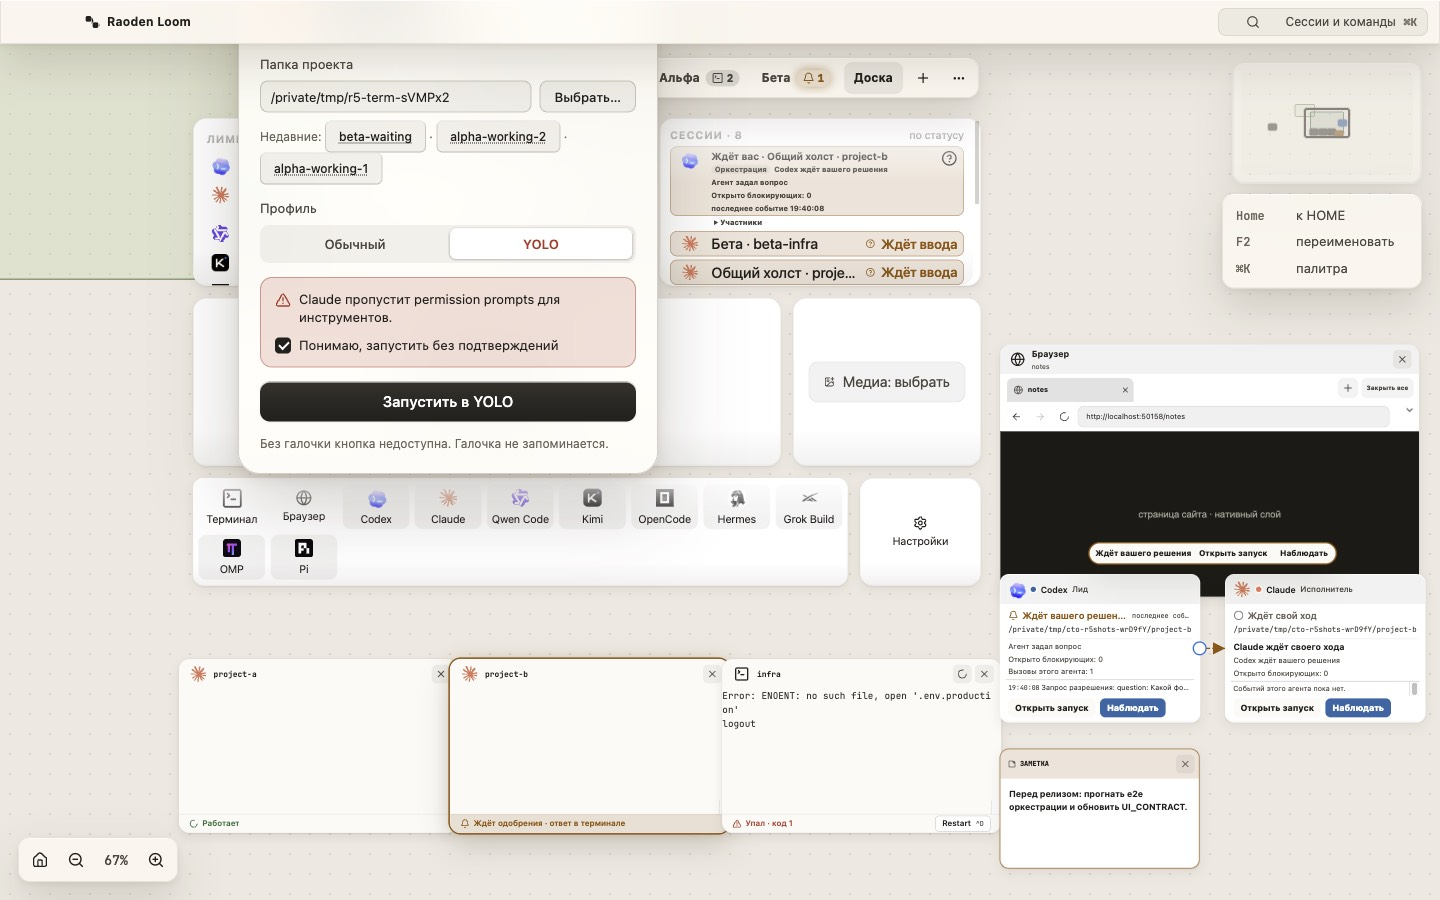
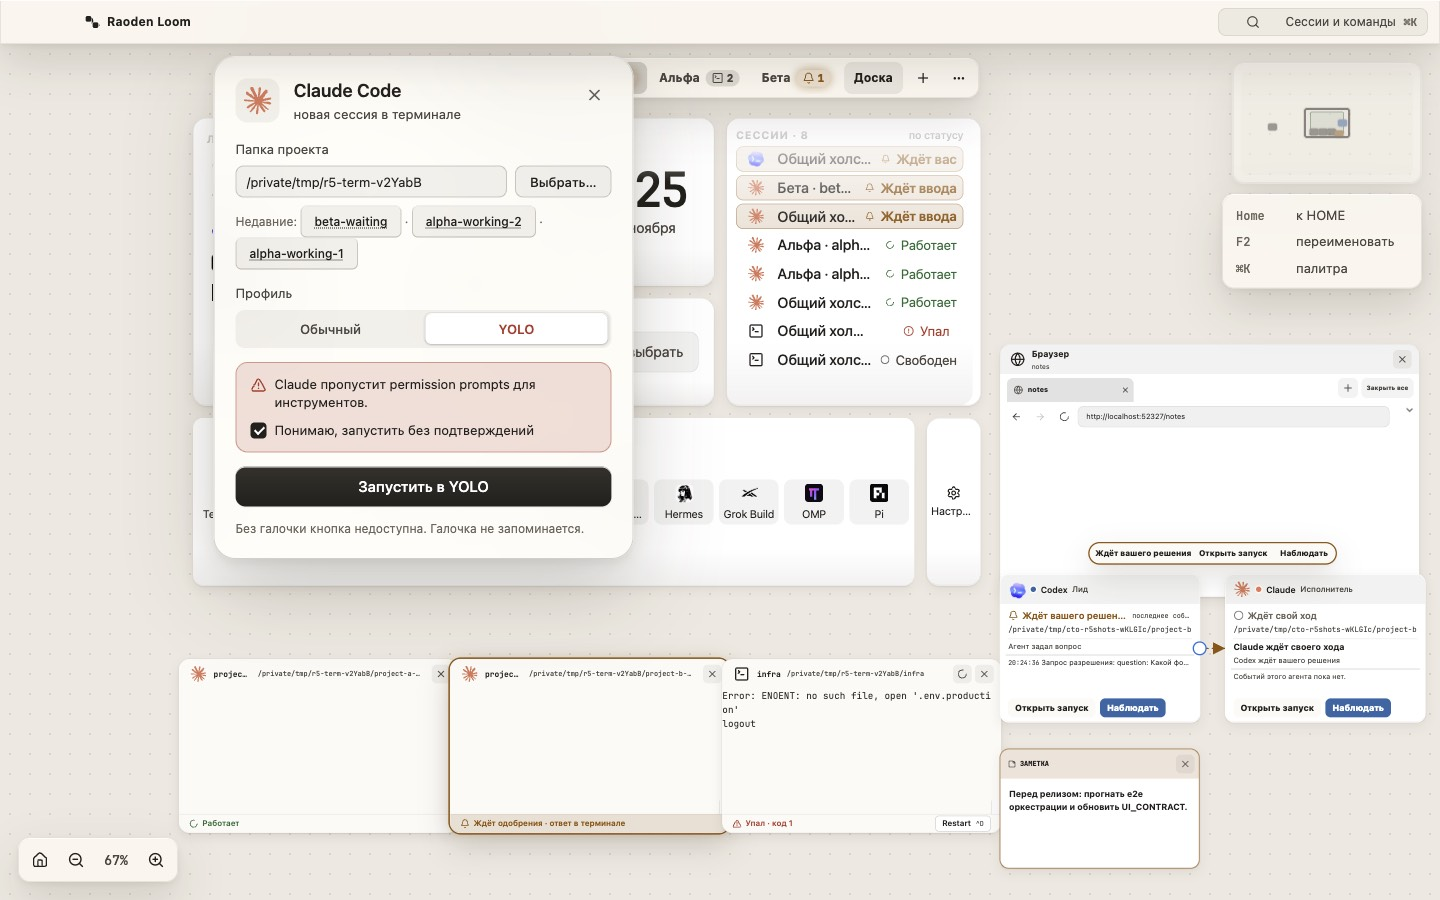
docs(r6b): conformance pairs and notes for HOME, cards, terminal, launch

diff --git a/docs/ux-audit/2026-11-10/conformance-2/other.md b/docs/ux-audit/2026-11-10/conformance-2/other.md
@@ -130,3 +130,17 @@ D-016 разрешает не менять сетку 16×12 и минимум 1
 ## Как снято
 
 `node scripts/shots-r5.mjs --out <scratchpad>/shots --themes sand,paper` (4 мин 40 с) и `--themes frost` отдельно; пары собраны `sips` (вырезка, JPEG). Временные каталоги скрипта (`cto-r5shots-*`, `r5-term-*`) удалены им самим, процессов не осталось.
+
+## После R6-B (HOME, карточки, терминал, запуск агента)
+
+Кадры сняты тем же сценарием (копия `shots-r5.mjs`, sand и paper, 1440×900); пары `03-canvas-*`, `05-home-sand`, `06-terminal-*`, `14-launch-*`, `14-yolo-sand`, `18-link-dialog-*` обновлены (app).
+
+- С1 после R6: закрыто. Поповер у точки клика, «В браузере Loom» / «В системном браузере» / «Скопировать адрес», без «Canvas» и подзаголовка. Не сделано: галочка «Для localhost больше не спрашивать» — настройки запоминания выбора в продукте нет, новую не добавлял (вопрос владельцу).
+- С2 после R6: закрыто. Раскладка по умолчанию: лимиты 5×5, часы 3×3 с медиа 3×2 под ними, сессии 4×5 одним верхним рядом, док 11×3 и настройки 1×3. Сохранённые раскладки не трогаются.
+- М8 после R6: закрыто, 11 кнопок в одном ряду.
+- М7 после R6: закрыто. Запуск оркестрации в «Сессиях» одна строка (марка, проект, статус); подробности в подсказке, участники и детали скрыты из вида (остаются в DOM для смоков).
+- «Ждёт ввода» после R6: колокольчик (и у «Ждёт вас» запуска).
+- М1 после R6: закрыто, рядом с переименованным именем путь моноширинным.
+- М2 после R6: закрыто в `AgentScene.cardState` (не в `runModel.ts`): пауза, которую снимает только человек, даёт состояние `needs_you` у карточки роли, держащей ход, а если хода нет, у обеих карточек запуска. Кадр `06-agent-working-sand` в состоянии макета не снят (фикстура: пауза «отчёт не прочитан»).
+- М4 после R6: закрыто, счётчики «Открыто блокирующих» и «Вызовы этого агента» убраны из тела; «Открыть запуск» и «Наблюдать» остаются (D-029). Смоки `smoke-v2-checks-ui` и `smoke-autopilot-ui` обновлены под это.
+- М5 после R6: закрыто. Поповер запуска не уходит под шапку: при росте (YOLO) сдвигается вниз поверх ряда дока, заголовок и × видны.
